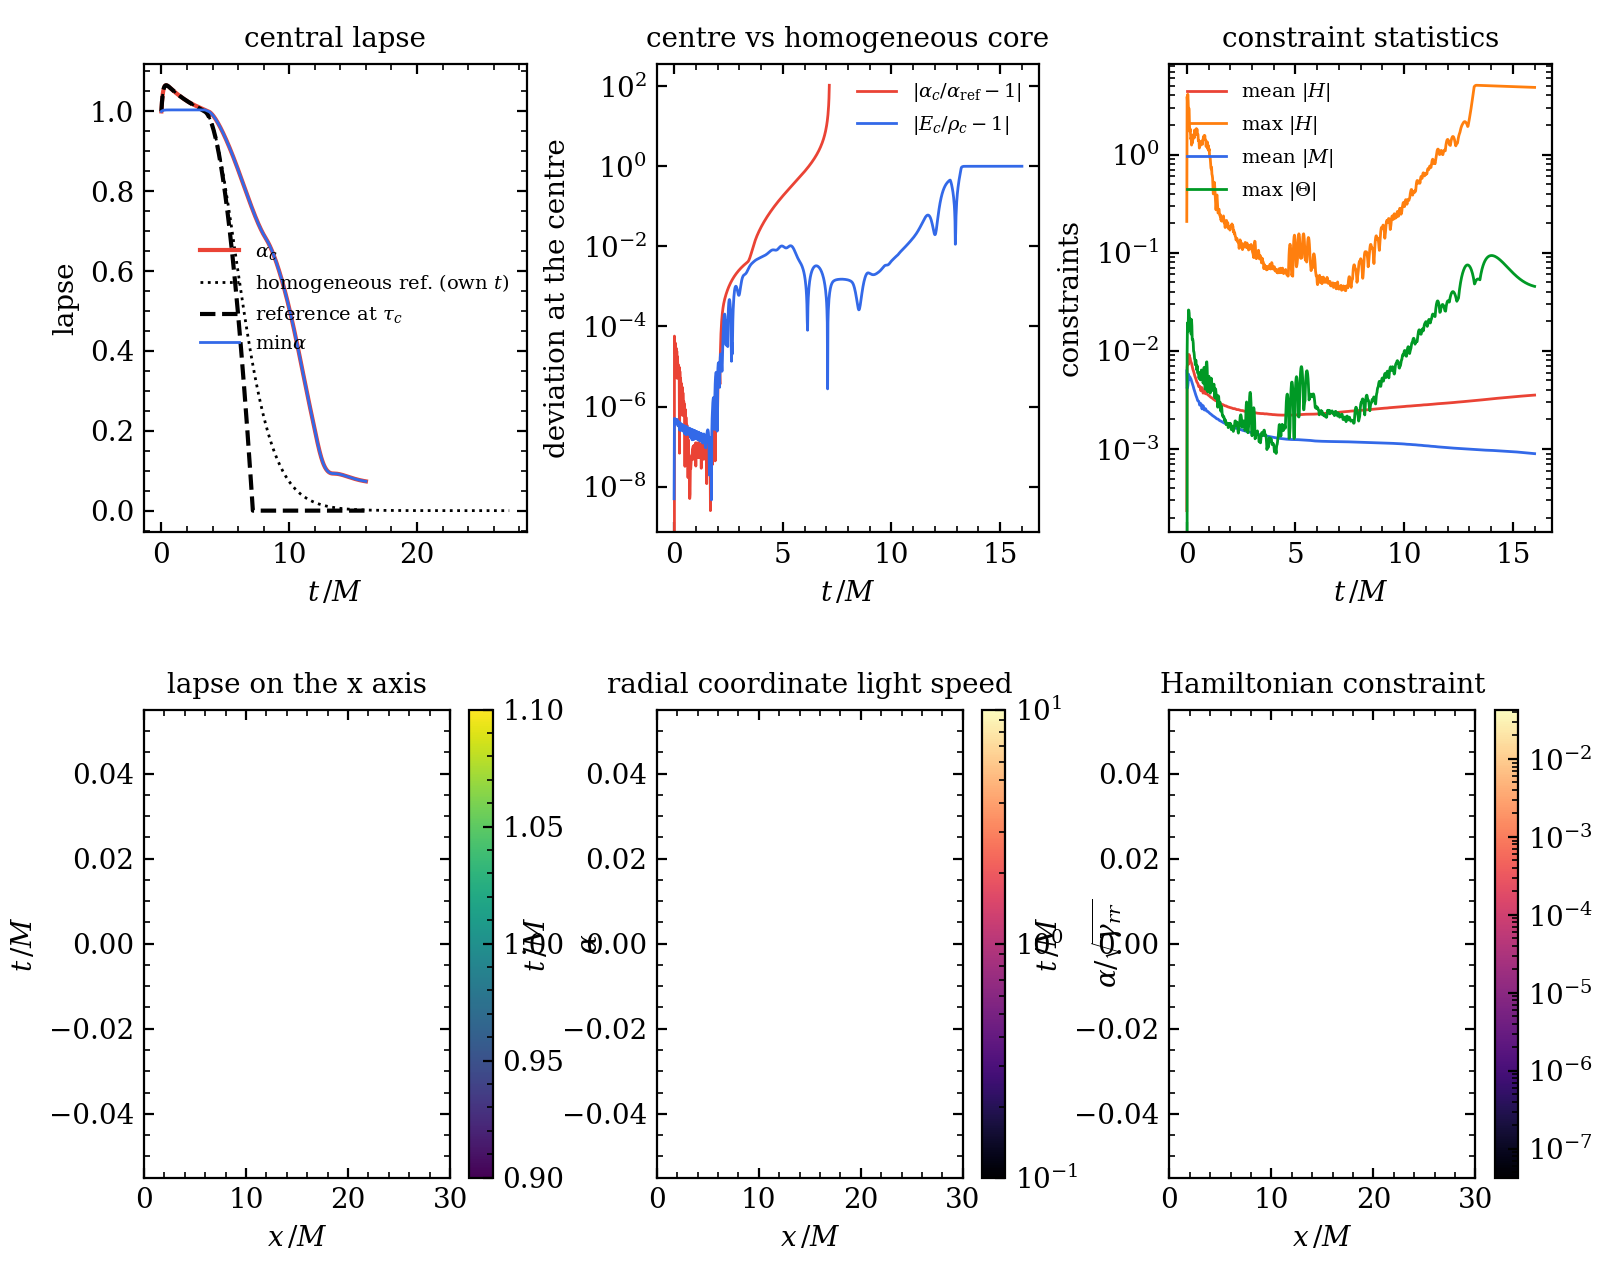
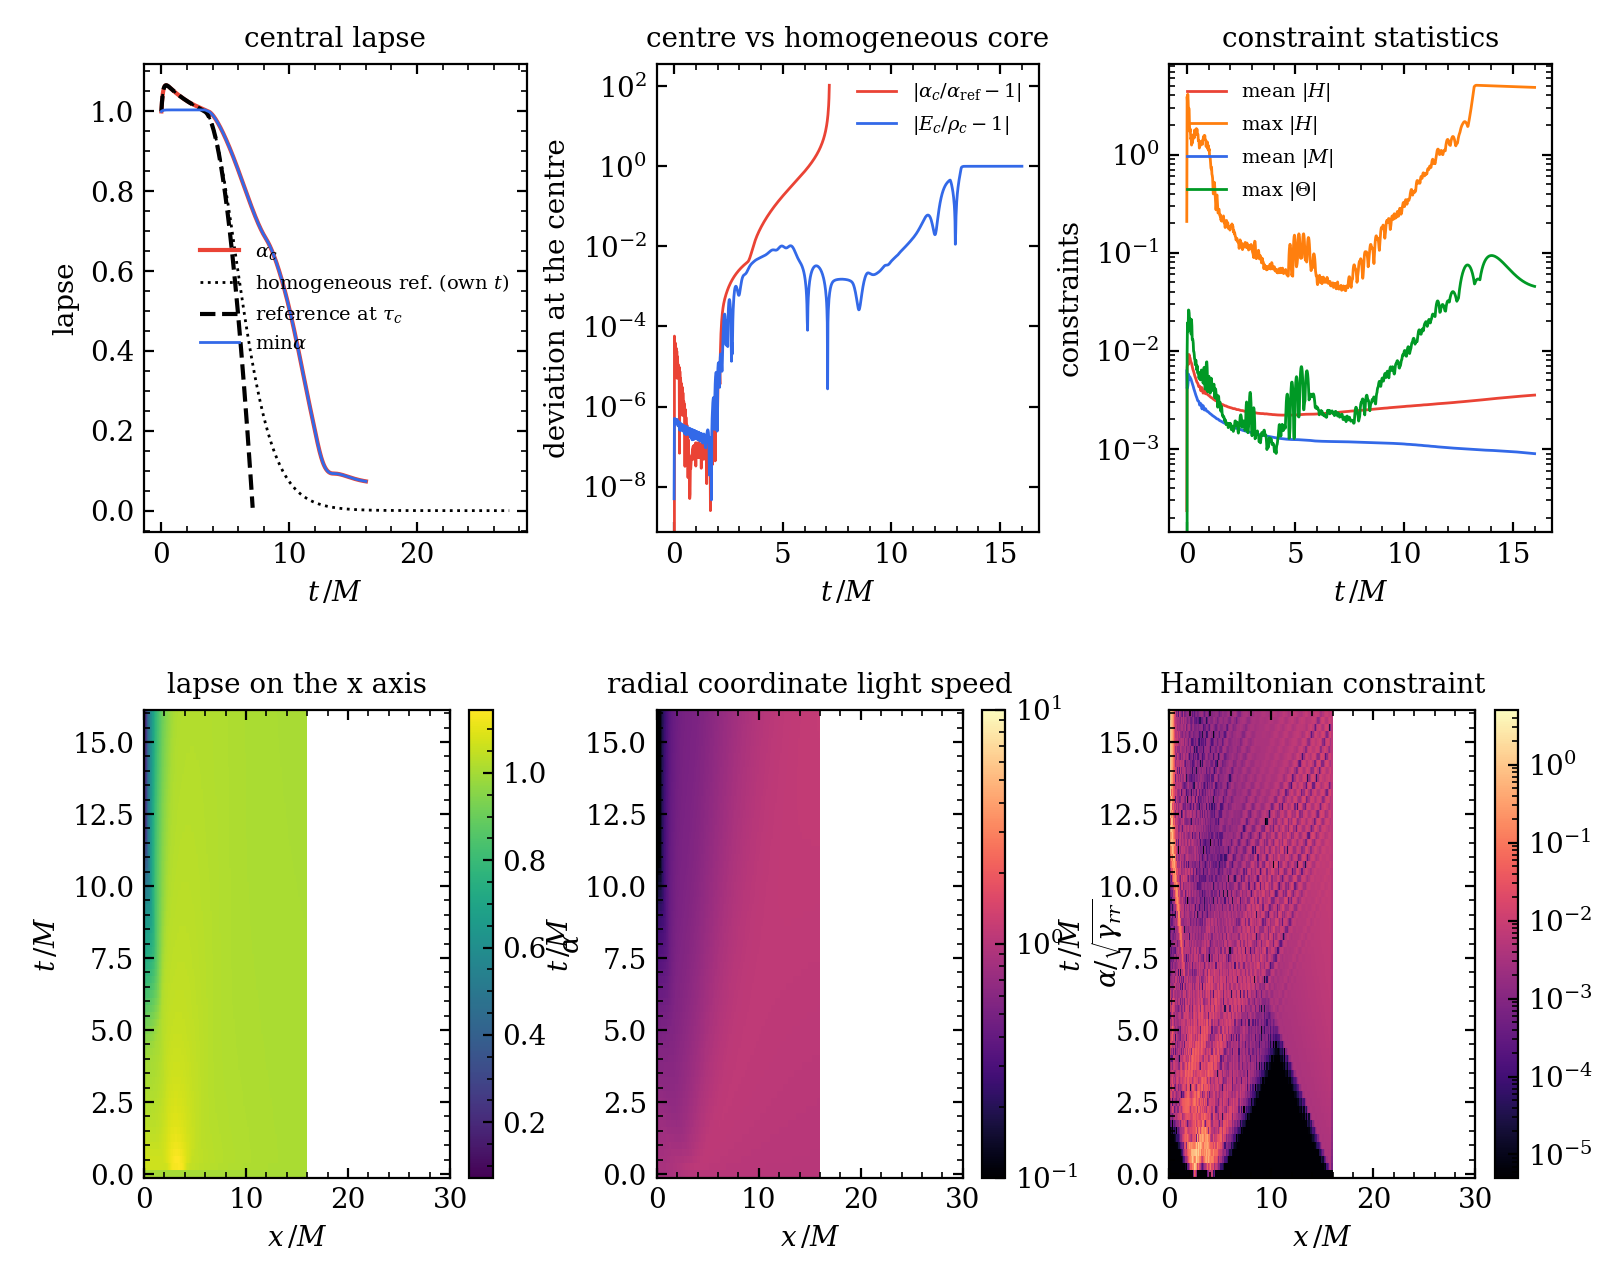
runs_ball: entry 11 judges S (S1, S2, S5 hold; S3 refuted on the clock; S4 better than predicted) and B (no horizon on uniform meshes to M/8, blow-up at t = 14.3-15.0); excision: the lapse criterion acts through the interpolant (A-20261121-081153-b92c08c)

diff --git a/tracks/A-emd-pbh/runs_ball/JOURNAL.md b/tracks/A-emd-pbh/runs_ball/JOURNAL.md
@@ -546,6 +546,127 @@ changed to take an optional part (runs3 | bh_smr; default all unchanged, commit 
 because its first part copies figures into figs/ and nrpic-run refuses a dirty package for
 the second registration. Registered analysis: see the outcome below (written after the run).
 
+Outcome (written 2026-11-21 after the registered runs; every figure named was looked at).
+Runs: analysis A-20261121-074923-d396d73 (compare.py on the six runs of card run
+A-20261119-144419-13d5601, fields.py, summary3.py; numbers `<label>_numbers.json`,
+`summary3.json`); excision and breakdown A-20261121-081153-b92c08c (`excision.json`,
+`bd/turnaround.json`); the light speed of S6 from the box analysis (entry 19). Figures:
+`figs/sr1l_n{128,256,256L32}_{shells,events,misner_sharp,horizon,gauge}.png`,
+`sr1l_n256_fields.png`, `fig_sr1l_comparison.png`, `bh_n{128,192,256}_{shells,events,
+misner_sharp,horizon,gauge}.png`, `bh_n256_fields.png`, `fig_bh1_summary.png`,
+`fig_excision.png`. The top-left panel of the three `sr1l_*_gauge.png` of run -074923- shows
+a(tau_c) as "reference" (defect 1 of entry 17); the figures of the box analysis replace them;
+the numbers are not affected.
+
+### S (SR-1L on 2t, relaxed lapse T = 0.125 M)
+
+- S1 HOLDS. All three runs reach their end with finite fields (dx = M and M/2 to t = 44,
+  M/4 to t = 24; `history.finite_end`). At dx = M/2 the mean |H| (cstat) is 1.73e-5 at t = 10
+  and 6.68e-5 at t = 40: growth 3.9 (bound 10). The largest |H| grows from 1.6e-4 (t = 20) to
+  3.2e-2 at t = 44 (`fig_sr1l_comparison.png` bottom left), at the centre, where the core
+  collapses (`sr1l_n256_fields.png`, t = 43).
+- S2 HOLDS. |alpha_c/alpha_ref - 1| is at most 5.7e-3 (M/2) and 5.6e-3 (M/4) for t <= 15 and
+  first exceeds 0.02 at t = 18.375 (M/2, M/4) and 18.5 (M), after the core turnaround
+  (t = 16.68 in the reference): no lapse front before the turnaround (SR-2 had 0.39).
+- S3 first part HOLDS, second part REFUTED. After the turnaround the central lapse stays
+  above the reference: the smallest alpha_c/alpha_ref - 1 on 16 <= t <= 44 in the history
+  series of the numbers file (every ~1/80 of the records) is +6.1e-3 (M/2), +6.3e-3 (M),
+  +6.0e-3 (M/4, to t = 24); the lapse is not driven down at all: alpha_c = 0.876 (M/2) and
+  0.943 (M) at t = 44 against a reference that falls below 0.1 at t = 40.3. Consequently the
+  central proper time at t = 44 is 43.44 (M/2) and 43.70 (M), outside the predicted 29.9-40 and
+  within 0.9 M of the first trapping (44.349). No horizon was found at any resolution (finder
+  rows: none; `line_horizon`: none; largest 2m/R on the line 0.236 at t = 0), as predicted:
+  the first horizon (R_AH = 0.161 M) lies inside the innermost line point (R of the innermost
+  point >= 0.44 M at M/2, `sr1l_n256_horizon.png` right). The runs end at t = 44 before any
+  tracked particle has reached the trapping time of its shell (`events`: no
+  first_trapped_tracked, missed_trapping 0): SR-1L at these meshes stops about 1 M short of
+  the first horizon of 2t, and would need t > 45 and refinement.
+- S4 dx = M/2 part REFUTED on the good side, the rest HOLDS. Largest core |R/R_exact - 1| at
+  tau = 16.894: 6.4e-4 at M/2 (predicted 1e-3 to 5e-3: smaller), 1.52e-4 at M/4 (< 1.5e-3),
+  1.38e-2 at M (> 1e-2). Mean core turnaround error (V3): -0.0063 M (M/2, bound 0.03),
+  -0.0049 M (M/4, bound 0.02), -0.594 M (M); mean R_max error +1.1e-4 (M/2), -3.3e-5 (M/4),
+  both within 0.2 per cent.
+- S5 HOLDS. Core error at tau = 16.894 falls from 6.40e-4 to 1.52e-4 between M/2 and M/4
+  (factor 4.2, apparent order 2.08; summary3 `orders`); between M and M/2 the order is 4.43
+  (dx = M is not in the asymptotic range, as for SR-1/SR-2). Caveat: M/4 has the box [-32,32]^3
+  and the h = M/4 lattice; entry 14 separates them.
+- S6: judged in entry 19 with `line_light_speed` of the box analysis.
+- Refutation clause of S: none met (no non-finite run, no central-lapse departure above 5 per
+  cent before t = 16, core error at tau = 16.894 well below 7.5e-3). The relaxed lapse is the
+  first gauge of this package that carries 2t from the initial slice to within 1 M of the first
+  trapping with shells errors of 1e-3 to 4e-2 (M/2: largest core error 5.8e-3 at tau = 30,
+  4.1e-2 at tau = 40).
+- Misner-Sharp mass on the line, r >= 2 M: largest relative error 2.2e-2 to t = 30 (M/2), 0.24
+  (M); 7.1e-2 at M/4 to t = 24, where the outflow boundary at 32 M has reached the envelope
+  (`sr1l_n256L32_misner_sharp.png`: the error rises beyond r = 8 M at t = 24;
+  `sr1l_n256L32_gauge.png`: mean |H| 4.9e-4 at t = 24, ten times the L = 64 runs, entering from
+  the boundary).
+
+### B (BH-1, data set 3, uniform dx = M/4, M/6, M/8 over [-16,16]^3)
+
+- B1 REFUTED. None of the three runs reaches t = 16 with finite fields. First non-positive
+  metric determinant (athena.log) at t = 14.3125 (M/4), 14.5 (M/6), 15.03125 (M/8); first
+  non-finite cstat record 14.375, 14.5, 15.03125; first non-finite z4c history record 14.5,
+  14.5, 15.25 (`bd/turnaround.json` of -081153-). Each run exits 0 and writes to t = 16 (HANDOFF
+  trap). The blow-up is at the centre: the largest |H| grows from 0.05-0.08 (t = 6-8) to 0.2
+  (t = 10), 0.65-1.0 (t = 12) and 10-20 (t = 14) (`bh_n*_gauge.png`), with a 2-4 cell
+  checkerboard of H and Theta in the central cells (`bh_n256_fields.png`, t = 10, 12); the
+  central lapse reaches its minimum (0.30 at M/4, 0.22 at M/6, 0.17 at M/8, near t = 12.5) and
+  then rises steeply to > 1 just before the blow-up (`fig_bh1_summary.png` bottom right).
+  Later breakdown at finer mesh (14.3 -> 14.5 -> 15.0).
+- B2 REFUTED. The finder (start radius 3.0 M, 1000 iterations, tolerance 1e-6, from t = 8 every
+  0.125 M) reported no horizon in any of its 64-65 searches in any run (all rows NaN).
+- B3 the finder part UNDECIDED (no detection); the per-particle part HOLDS at M/8. The first
+  slice with a trapped round sphere (a tracked particle past the exact trapping time of its
+  shell) is at code time 10.33 (M/4), 10.41 (M/6), 10.47 (M/8). Per particle of the core-edge
+  band (60 particles), the mean of tau_AH(numerical) - tau_AH(exact) is +0.191 (M/4), +0.040
+  (M/6), -0.010 M (M/8): within +-0.1 M at M/8, converging. Inner core shells trap early (R
+  falls through 2m up to 0.9 M early at R_i < 1.5; `bh_n256_events.png` bottom left), because the
+  numerical core crunches early (mean -0.45 M at M/8): the collapsing core is squeezed into the
+  innermost cells.
+- The uniform M/8 run's trapped points without a finder detection [VERIFIED from the line
+  outputs]: the line (y = z = dx/2) has an outermost marginally trapped sphere (2m/R > 1, K_T > 0)
+  from t = 11.0 to 11.75 at coordinate radius 0.435-0.469 M (3.5-3.8 cells), areal radius
+  1.39-1.43 M (exact R_AH 1.373), Misner-Sharp mass 0.694-0.716 against the exact shell mass
+  0.688-0.692 (+0.3 to +3.6 per cent; `bh_n256_horizon.png`); lines after t = 12.0 are cut
+  (|H| > 1). M/6: from 11.25, M/4: from 11.75. [JUDGEMENT] the finder, started at 3.0 M
+  coordinate radius, never converged onto a surface of coordinate radius 0.45 M: the same
+  failure that made BH-1R change the start radius to 1.0 M (entry 10 amendment); BH-1R then
+  found it (entry 12). Not tested: the finder at M/8 with the BH-1R settings.
+- B4 UNDECIDED (no finder mass). The line Misner-Sharp mass of the trapped sphere is 0.3-3.6
+  per cent above the exact mass at M/8 (above); this is not the finder's quantity.
+- B5 REFUTED. Largest core |eps| at the turnaround (tau = 3.37): 1.39e-2 (M/4), 6.75e-3 (M/6),
+  5.29e-3 (M/8) (bound 2e-3 at M/8); to tau = 9.05: 0.130, 0.078, 0.059 (bound 2e-2). Order
+  M/4 -> M/6: 1.77, M/6 -> M/8: 0.85 (not in a clean power law; the largest error sits at the
+  core edge, the top-hat jump, `bh_n256_shells.png`). Mean core turnaround error (V3): +0.071
+  (M/4), -0.011 (M/6), -0.011 M (M/8); mean R_max error +3.9e-3, -6.4e-4, -5.5e-4.
+- B6 HOLDS. alpha_c/alpha_ref - 1 is below 6.5e-5 to t = 2 in all three runs; it exceeds 0.02
+  at t = 3.84-3.88 and the lapse stays above the reference (`bh_n256_gauge.png`), as the source
+  paper reports for its OS run (main.tex:943: the central lapse follows the homogeneous expression
+  until the gauge characteristic from the surface arrives, and stays above it afterwards).
+- Refutation clause of B: met (no horizon at M/8 by t = 16; non-finite before t = 16, though
+  after the first trapped slice). Prediction B is refuted for uniform meshes up to M/8.
+
+### Excision (prediction E, entry 16; run A-20261121-081153-b92c08c, `fig_excision.png`)
+
+- E1 REFUTED, and the open question of entry 9 is answered. BH-1 at dx = M/2 removed 515
+  particles (rest mass 0.768) at t = 14.25-14.375 while the smallest lapse in any cell of the mesh
+  never fell below 0.484 (nrpic.hst [16], min at t = 12.5). All 291 tracked particles that
+  disappear had, at their last record (t = 14.0), a lapse at the particle (trajmet, the b-spline
+  interpolant of the run) below alpha_exc: median 0.096, at r < 0.11 M from the origin, moving
+  with |u_i| = 8-11. So the lapse criterion (a) removed them, through the interpolated lapse at
+  the particle, at a place where every cell value was about 0.5. [JUDGEMENT, TO VERIFY by core]
+  the interpolant undershoots the cell values near the origin, where eight MeshBlocks meet.
+- E2 HOLDS for BH-1R, REFUTED for BH-1 at M/8. BH-1R: removals from t = 12.70 (after the first
+  trapped slice, 10.54), 325784 particles of rest mass 0.827 by t = 16; the particles missing
+  between snapshots sat at coordinate radius <= 0.345 M (median 0.146-0.153), inside the finder's
+  horizon (mean radius 0.42-0.43 M); the tracked ones had a last recorded lapse of 0.10-0.11
+  (73 of 453 below 0.1): criterion (a). But 74208 of them (rest mass 0.259) went while the
+  smallest cell value of the lapse was still >= 0.1 (12.70-12.98): the same interpolant effect,
+  small here. BH-1 at M/4, M/6, M/8: every particle is removed at the blow-up (14.19, 14.5,
+  15.03), the bulk with finite lapse at their last record (M/6: median 0.996, M/8: 0.40):
+  criterion (c), non-finite particle states, as the fields become non-finite.
+
 ## 2026-11-20, entry 12: outcome of entry 10 (BH-1R, one refined level)
 
 Written after the registered analysis of BH-1R (see below).
@@ -691,7 +812,7 @@ Prediction E [JUDGEMENT]:
   (code time > 10.5), by criterion (a), inside the horizon (last recorded coordinate radius of a
   removed tracked particle below the finder's mean radius, where the finder found one).
 
-## 2026-11-21 00:20 PST, entry 17: two defects of compare.py found in the first registered analyses, and what is registered next
+## 2026-11-21 00:11 PST, entry 17: two defects of compare.py found in the first registered analyses, and what is registered next
 
 Registered so far this session: A-20261121-074923-d396d73 (SR-1L at dx = M, M/2, M/4; BH-1 at
 M/4, M/6, M/8; `after_runs3.sh runs3`, completed) and A-20261121-080558-02c3188 (BH-1R;
